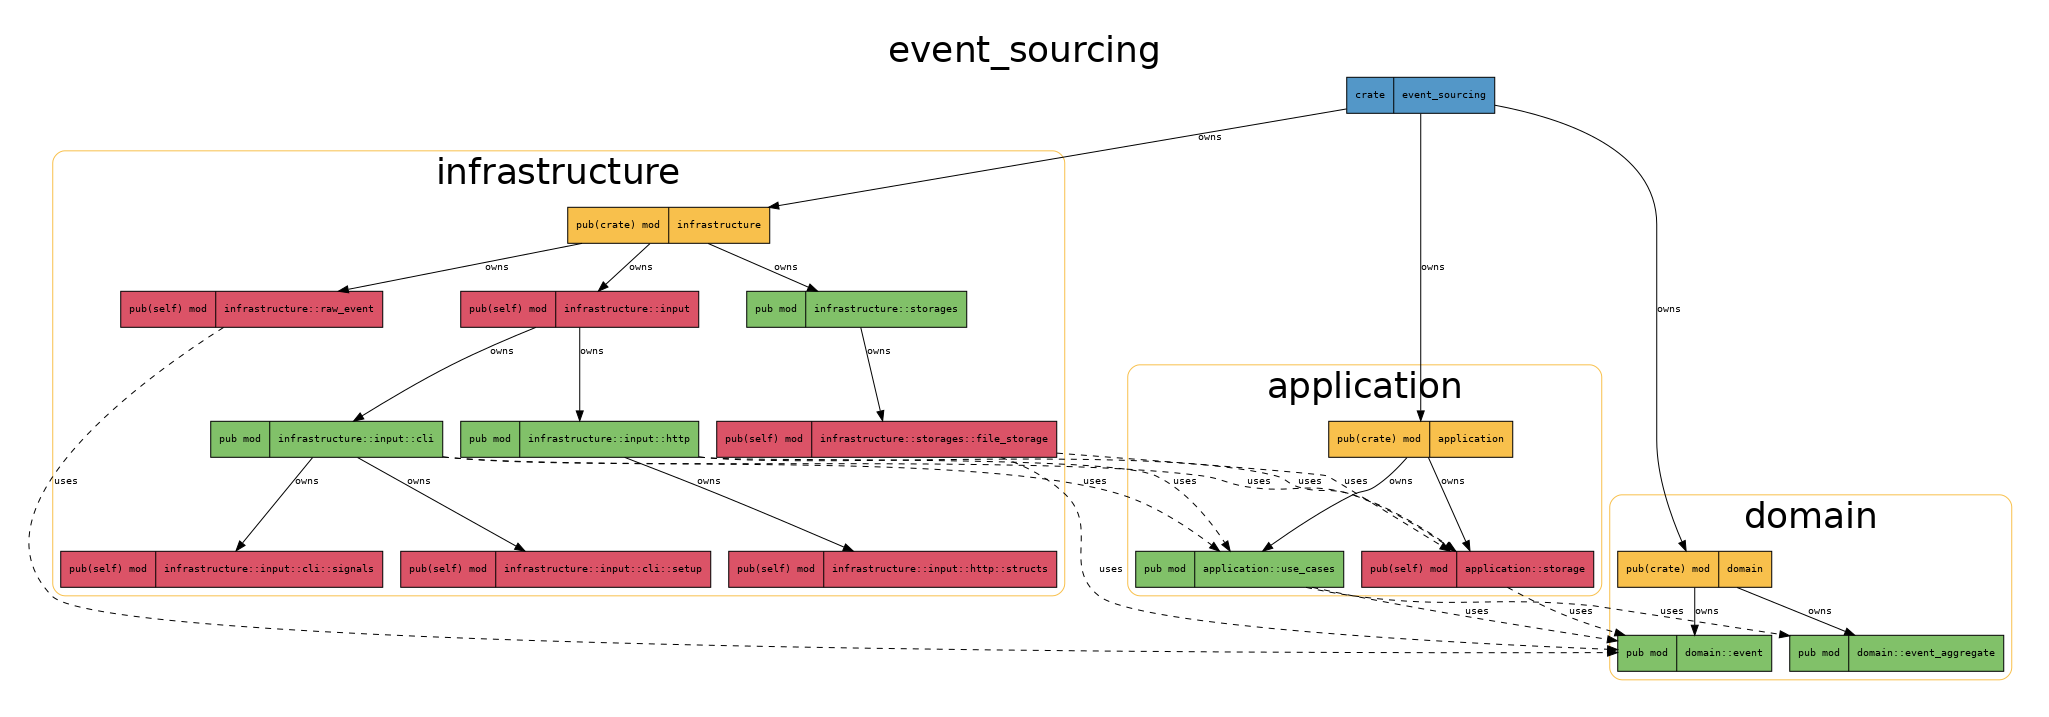
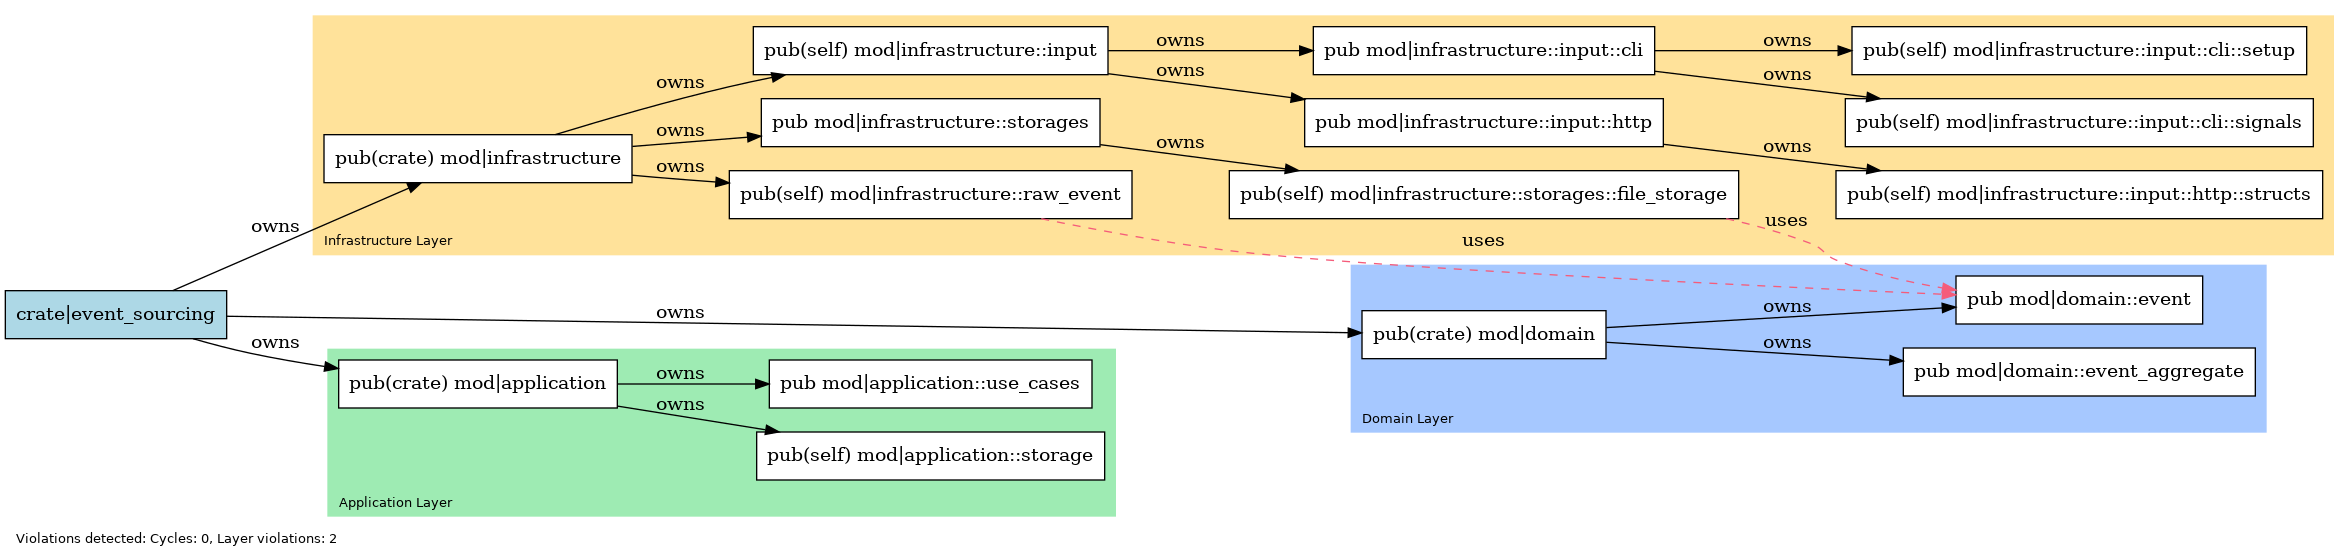
update. added test to build view

diff --git a/tests/fixtures/dot_content.py b/tests/fixtures/dot_content.py
@@ -49,7 +49,9 @@ def application_to_application_dot_content():
 
 @pytest.fixture
 def infrastructure_to_infrastructure_dot_content():
-    with open(path.join(CURRENT_DIR, "infrastructure_to_infrastructure.dot"), "r") as diagram:
+    with open(
+        path.join(CURRENT_DIR, "infrastructure_to_infrastructure.dot"), "r"
+    ) as diagram:
         return diagram.read()
 
 
@@ -61,7 +63,9 @@ def application_uses_domain_dot_content():
 
 @pytest.fixture
 def infrastructure_uses_application_dot_content():
-    with open(path.join(CURRENT_DIR, "infrastructure_uses_application.dot"), "r") as diagram:
+    with open(
+        path.join(CURRENT_DIR, "infrastructure_uses_application.dot"), "r"
+    ) as diagram:
         return diagram.read()
 
 
@@ -73,7 +77,9 @@ def infrastructure_uses_domain_dot_content():
 
 @pytest.fixture
 def application_uses_infrastructure_dot_content():
-    with open(path.join(CURRENT_DIR, "application_uses_infrastructure.dot"), "r") as diagram:
+    with open(
+        path.join(CURRENT_DIR, "application_uses_infrastructure.dot"), "r"
+    ) as diagram:
         return diagram.read()
 
 
@@ -91,7 +97,9 @@ def application_uses_unknown_dot_content():
 
 @pytest.fixture
 def infrastructure_uses_unknown_dot_content():
-    with open(path.join(CURRENT_DIR, "infrastructure_uses_unknown.dot"), "r") as diagram:
+    with open(
+        path.join(CURRENT_DIR, "infrastructure_uses_unknown.dot"), "r"
+    ) as diagram:
         return diagram.read()
 
 
@@ -104,4 +112,18 @@ def domain_uses_no_layer_dot_content():
 @pytest.fixture
 def application_uses_no_layer_dot_content():
     with open(path.join(CURRENT_DIR, "application_uses_no_layer.dot"), "r") as diagram:
+        return diagram.read()
+
+
+@pytest.fixture
+def test_graph_input_content():
+    with open(path.join(CURRENT_DIR, "complexes", "graph_input.dot"), "r") as diagram:
+        return diagram.read()
+
+
+@pytest.fixture
+def test_graph_expected_content():
+    with open(
+        path.join(CURRENT_DIR, "complexes", "graph_expected.dot"), "r"
+    ) as diagram:
         return diagram.read()

diff --git a/dot_analyzer/view/tests/test_dot_builder.py b/dot_analyzer/view/tests/test_dot_builder.py
@@ -1,0 +1,14 @@
+from dot_analyzer.core.analyzer import ArchitectureAnalyzer
+from dot_analyzer.view.dot_builder import DotView
+from dot_analyzer.core.dot_parser import DotParser
+
+
+def test_to_layered_dot_output(test_graph_input_content, test_graph_expected_content):
+    parser = DotParser()
+    graph = parser.parse_content(test_graph_input_content)
+    analyzer = ArchitectureAnalyzer(graph)
+    dot_view = DotView()
+
+    result = dot_view.to_layered_dot(graph, analyzer)
+
+    assert result == test_graph_expected_content
